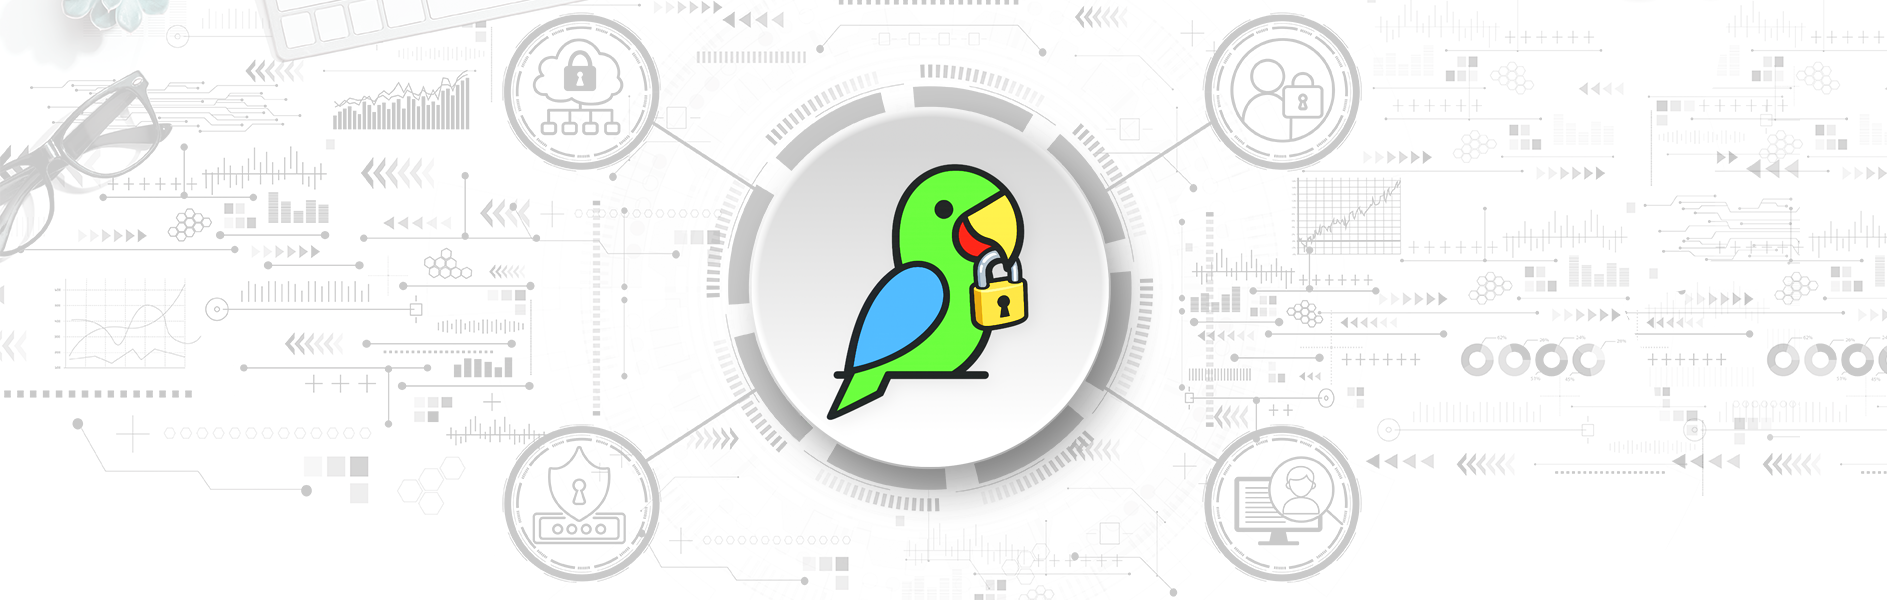
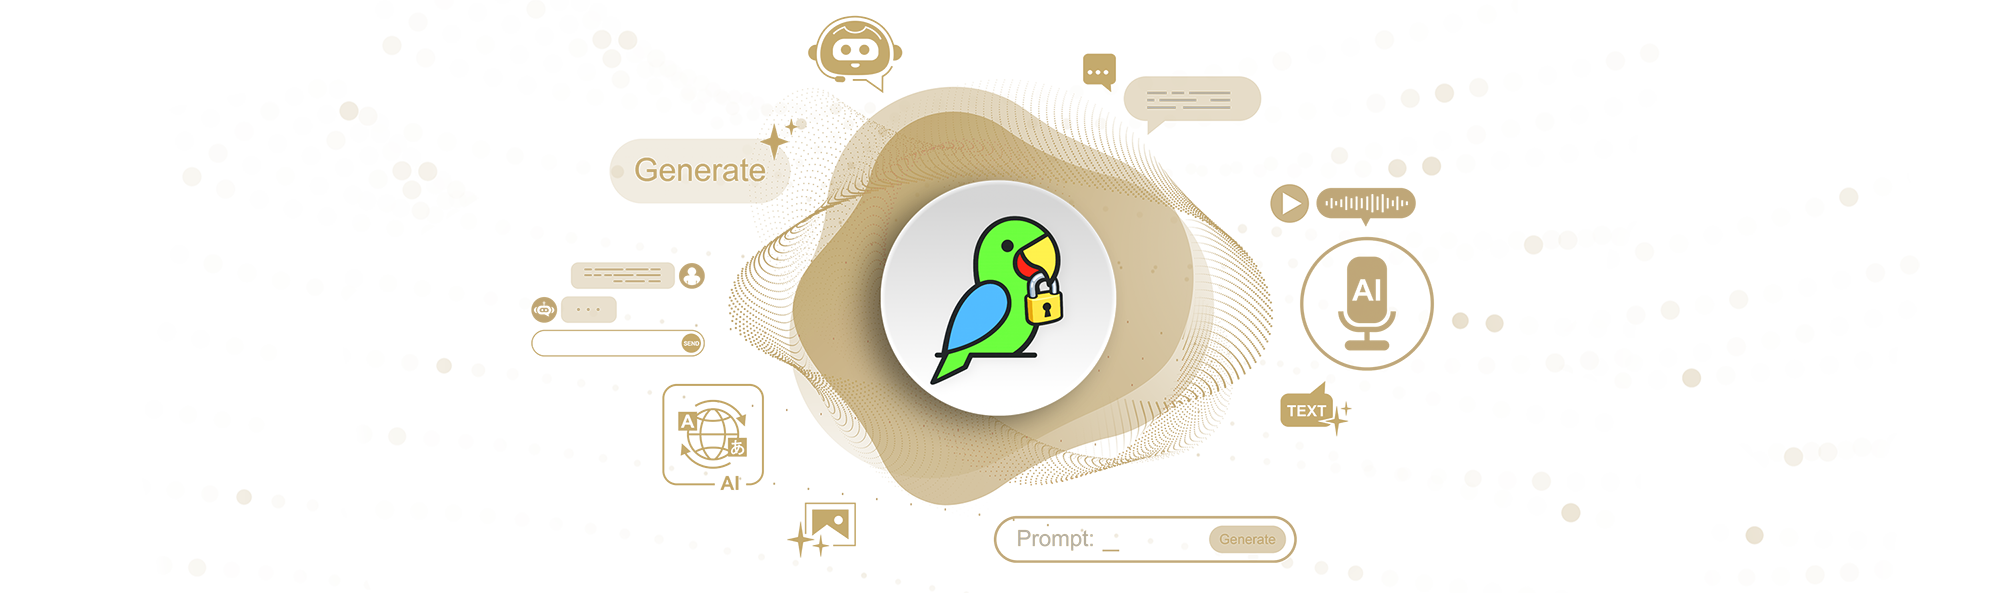
news: Parakeet v1.0.0 guide — shorten Privacy heading, re-export batch_mode + privacy_screen images

diff --git a/news/npp_parakeet_v1.0.0.md b/news/npp_parakeet_v1.0.0.md
@@ -25,7 +25,7 @@ Parakeet requires **Nextpad++ v1.0.7** and above and installs in one click from 
 
 ---
 
-# Privacy first — read this before anything else
+# Privacy first
 
 ![privacy](npp_parakeet_v1.0.0/privacy_screen.png) *Privacy by design*
 